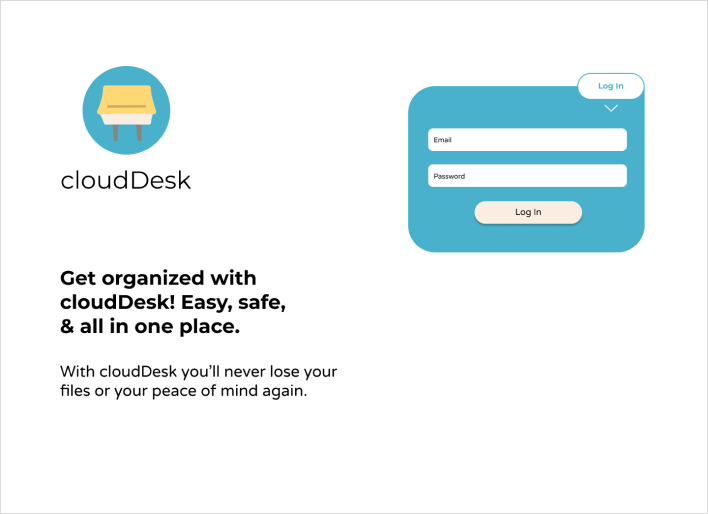
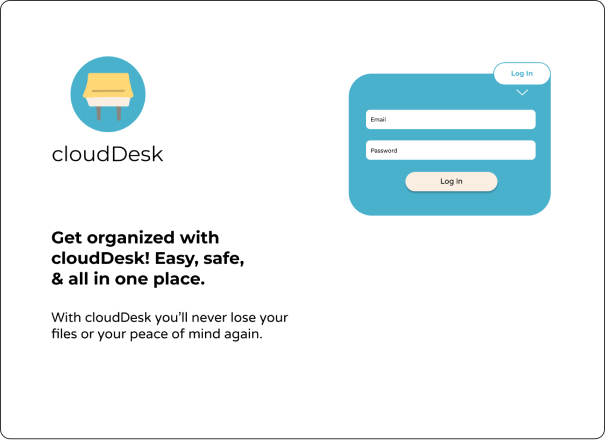
added device frames and switched some styles in cloudDesk case study

diff --git a/cloudDesk.html b/cloudDesk.html
@@ -231,22 +231,22 @@
             <p>With the previous usability test results and a style guide in hand I set about putting together high fidelity mockups of the cloudDesk site. In order to refine my designs I did a few rounds of preference testing.</p>
           </div>
           <div class="testing">
-            <img src="images/cloudDesk/logoPlacement1.jpg" alt="cloudDesk Logo Placement Option 1" class="cloudCaseStudyPic" id="logoPlacement1">
-            <img src="images/cloudDesk/logoPlacement2.jpg" alt="cloudDesk Logo Placement Option 2" class="cloudCaseStudyPic" id="logoPlacement2">
+            <img src="images/cloudDesk/logoPlacement1.jpg" alt="cloudDesk Logo Placement Option 1" class="cloudCaseStudyPic" id="prefTestPic">
+            <img src="images/cloudDesk/logoPlacement2.jpg" alt="cloudDesk Logo Placement Option 2" class="cloudCaseStudyPic" id="prefTestPic">
           </div>
           <div class="testingText">
             <p>Originally I placed the cloudDesk logo at the top of the homepage. However after conducting some A/B testing, 62% of respondents preferred to have the logo in the top left corner of the screen.</p>
           </div>
           <div class="testing">
-            <img src="images/cloudDesk/dashboardIcons1.jpg" alt="cloudDesk Icons Option 1" class="cloudCaseStudyPic" id="dashboardIcons1">
-            <img src="images/cloudDesk/dashboardIcons2.jpg" alt="cloudDesk Icons Option 2" class="cloudCaseStudyPic" id="dashboardIcons2">
+            <img src="images/cloudDesk/dashboardIcons1.jpg" alt="cloudDesk Icons Option 1" class="cloudCaseStudyPic" id="prefTestPic">
+            <img src="images/cloudDesk/dashboardIcons2.jpg" alt="cloudDesk Icons Option 2" class="cloudCaseStudyPic" id="prefTestPic">
           </div>
           <div class="testingText">
             <p>I had also originally designed the dashboard’s side menu with large icons next to each of the menu options. When given a choice between that design or one with much smaller icons, 67% of respondents preferred the smaller icons.</p>
           </div>
           <div class="testing">
-            <img src="images/cloudDesk/cdLG1.jpg" alt="cloudDesk Login Option 1" class="cloudCaseStudyPic" id="loginOption1">
-            <img src="images/cloudDesk/cdLG2.jpg" alt="cloudDesk Login Option 2" class="cloudCaseStudyPic" id="loginOption2">
+            <img src="images/cloudDesk/cdLG1.jpg" alt="cloudDesk Login Option 1" class="cloudCaseStudyPic" id="prefTestPic">
+            <img src="images/cloudDesk/cdLG2.jpg" alt="cloudDesk Login Option 2" class="cloudCaseStudyPic" id="prefTestPic">
           </div>
           <div class="testingText">
             <p>I had originally designed the login window to drop down right below the “Log In” button when clicked. Given the choice between that design or one that included a white carrot arrow pointing downward from the “Log In” button, 67% of
@@ -260,8 +260,8 @@
                 familiar, the app felt “very user friendly,” clean, and uncluttered.</p>
             </div>
             <div class="testing">
-            <img src="images/cloudDesk/dashboardHiFi.jpg" alt="Dashboard MockUp" class="cloudCaseStudyPic" id="dashboardFinal">
-            <img src="images/cloudDesk/newDocHiFi.jpg" alt="New Document MockUp" class="cloudCaseStudyPic" id="newDocFinal">
+            <img src="images/cloudDesk/dashboardHiFi.png" alt="Dashboard MockUp" class="cloudCaseStudyPic" id="dashboardFinal">
+            <img src="images/cloudDesk/newDocHiFi.png" alt="New Document MockUp" class="cloudCaseStudyPic" id="newDocFinal">
           </div>
           <div id="finalTestingResults">
             <p>Some suggestions participants made in order to improve my designs focused on the New Document screen. They suggested:</p>

diff --git a/styles/cloudDeskStyles.css b/styles/cloudDeskStyles.css
@@ -16,13 +16,21 @@
   padding-bottom: 3rem;
 }
 
+.wireframes {
+  display: block;
+}
+
 #wireframesMobile {
   margin-bottom: 10rem;
   width: 95%;
 }
 
-#usabilityImages, #userInsights {
+#userInsights {
   margin-left: -3rem;
+}
+
+#prefTestPic {
+  margin-bottom: 5rem;
 }
 
 /* tablets */
@@ -41,13 +49,15 @@
 
   #cloudHero {
     display: flex;
-    margin-top: 6rem;
+    position: relative;
+    bottom: 10rem;
   }
 
   #userFlowDesktop {
     align-items: center;
     display: flex;
     justify-content: center;
+    width: 100%;
   }
 
   #logoSketchesDesktop, #usabilityImagesDesktop, #wireframesDesktop, #wordWebsDesktop {
@@ -94,8 +104,19 @@
   }
 
   #userFlowDesktop, #logoSketchesDesktop {
+    bottom: 20rem;
     margin: 2rem;
     width: 50%;
+  }
+
+  .IA {
+    margin-top: 20rem;
+  }
+
+  .wireframes {
+    display: grid;
+    grid-gap: 10rem;
+    grid-template-columns: 40% 50%;
   }
 
   .cloudCaseStudyPic {
@@ -123,12 +144,17 @@
   }
 
   .colorPalette {
-    margin-left: 5rem;
+    margin-left: 15rem;
   }
 
   #logoDesign {
     margin-bottom: 9rem;
   }
+
+/*Testing*/
+#logoPlacement1, #logoPlacement2 {
+  width: 100%;
+}
 
   #testingIntro {
     width: 40%;
@@ -136,10 +162,14 @@
 
   .testing {
     display: flex;
-    width: 50%;
+    width: 60%;
     justify-content: center;
     align-items: center;
-    margin-left: 30rem;
+    margin: auto
+  }
+
+  #newDocFinal, #dashboardFinal {
+    width: 70%;
   }
 
   #logoPlacement2, #dashboardIcons2, #loginOption2, #newDocFinal {

diff --git a/styles/main.css b/styles/main.css
@@ -262,7 +262,7 @@ li {
   padding-bottom: 2rem;
 }
 
-.testingText, #finalTestingResults, #conclusion {
+#finalTestingResults, #conclusion {
   margin-bottom: 12rem;
 }
 
@@ -436,7 +436,7 @@ footer {
     width: 50%;
   }
 
-  .prefTests, #finalTests {
+  .prefTests, #finalTests, .cloudPalette {
     display: flex;
     justify-content: center;
     align-items: center;
@@ -466,10 +466,6 @@ footer {
     margin: 6rem;
   }
 
-  #heroText {
-    width: 40%;
-  }
-
   .project-grid {
     display: grid;
     grid-column-gap: 10rem;
@@ -477,12 +473,7 @@ footer {
     margin-top: 8rem;
   }
 
-  .left {
-    width: 50%;
-    display: inline-block;
-  }
-
-  .right {
+  .left, .right {
     width: 50%;
     display: inline-block;
   }
@@ -534,10 +525,6 @@ footer {
     width: 30%
   }
 
-  .userResearch {
-    width: 40%;
-  }
-
   #researchAnalysis {
     display: grid;
     grid-template-columns: 60%;
@@ -558,7 +545,7 @@ footer {
     grid-row-start: 3;
   }
 
-  .calloutText {
+  .calloutText, .testingText, .userResearch, #heroText {
     width: 40%;
   }
 
@@ -610,10 +597,8 @@ footer {
     width: 50rem;
   }
 
-  .testingText {
-    margin: auto;
-    text-align: center;
-    width: 60%;
+  #prefTestPic {
+    margin: 5rem;
   }
 
   #worked, #didNotWork, #keytakeaways {
